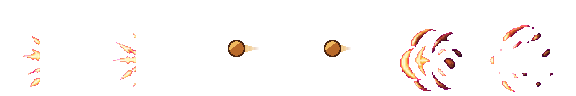
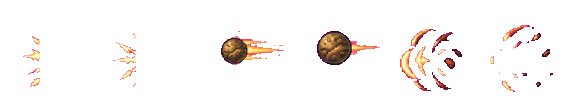
Thay hình vẽ bằng code bằng hình ChatGPT: bia chỉ đường P05 (3 ổ + mảnh chuông sáng theo số Chuông Vỡ), cọc chuông lối chính, vết nứt đỏ bí mật, dấu báo đòn quái (mặt nạ nứt đỏ cam), đạn Kèn Câm (cầu âm đồng có vệt đuôi, to rõ)
Claude-Session: https://claude.ai/code/session_01W9tcvqtq7TKxDYHKwgQMJZ

Changed region(s): [[0.5312, 0.3125, 0.6562, 0.6875], [0.375, 0.375, 0.5, 0.6875]]

diff --git a/tieng-vong-cuoi-cung/game/vung-1/ve.js b/tieng-vong-cuoi-cung/game/vung-1/ve.js
@@ -280,6 +280,7 @@
       ctx.fillStyle = '#0d0f1c'; ctx.fillRect(x - 26, y, 52, 7); ctx.fillStyle = '#ffbe50'; ctx.fillRect(x - 24, y + 2, Math.round(48 * Math.max(0, q.hp) / (d.mau || 30) / 2) * 2, 3); }
   }
   function veCham(x, y, xam){ x = Math.round(x); y = Math.round(y);
+    if (!xam && V1.IMG.dd_canh_bao){ veAnhDay(V1.IMG.dd_canh_bao, x, y + 26, 2.2, false); return; }
     ctx.fillStyle = '#0d0f1c'; ctx.fillRect(x - 5, y - 2, 10, 24); ctx.fillStyle = xam ? '#9aa3ad' : '#ffbe50'; ctx.fillRect(x - 3, y, 6, 12); ctx.fillRect(x - 3, y + 15, 6, 5); }
 
   /* ---------------- TRÙM: hình thật theo ID clip, chưa có → tượng tạm ---------------- */
@@ -489,6 +490,10 @@
      • loi_chinh: cọc gỗ + CHUÔNG NHỎ HỔ PHÁCH đung đưa, ánh hổ phách nhịp chậm – đặt gần cửa đi tiếp của tuyến chính.
      • bi_mat:    VẾT NỨT đỏ sẫm âm ỉ + bụi rơi lác đác – đặt trên/cạnh tường nứt, tường giả, hốc ẩn. Không có ánh hổ phách.
      • bang_chi_duong (P05): bia đá 3 ổ chuông sáng theo số Chuông Vỡ đã có + "còn thiếu n" + mũi tên về Sảnh Chuông Vỡ / Đàn Chuông Câm. */
+  // vẽ ảnh pixel (ChatGPT) neo ĐÁY-GIỮA tại (x, y) px logic, phóng k lần; lat = lật ngang
+  function veAnhDay(im, x, y, k, lat, a){ if (!im) return false; const w = im.width * k, h = im.height * k;
+    ctx.save(); ctx.imageSmoothingEnabled = false; if (a !== undefined) ctx.globalAlpha = Math.max(0, Math.min(1, a));
+    ctx.translate(Math.round(x), Math.round(y)); if (lat) ctx.scale(-1, 1); ctx.drawImage(im, -Math.round(w / 2), -Math.round(h), Math.round(w), Math.round(h)); ctx.restore(); return true; }
   const VNUT = [[0, 0, 0, 10], [-1, 9, 4, 6], [3, 14, -3, 8], [-3, 21, 2, 7], [2, 27, -2, 9], [1, 16, 7, 4], [-2, 24, -8, 3]];   // đoạn nứt [x, y, dx, dy]
   function veDauHieu(){
     const p = G.phong, f = E.S.frame;
@@ -496,6 +501,7 @@
       const x = d.cot * T + T / 2;
       if (d.loai === 'loi_chinh'){
         const y = V1.chanO(d.cot, d.hang);
+        if (veAnhDay(V1.IMG.dd_coc_chuong, x + 8, y + 2, 2.1, false)) continue;
         ctx.fillStyle = '#140c0b'; ctx.fillRect(x - 4, y - 66, 8, 66); ctx.fillRect(x - 4, y - 66, 26, 6);   // cọc + tay treo
         ctx.fillStyle = '#4a3026'; ctx.fillRect(x - 2, y - 64, 4, 62); ctx.fillRect(x - 2, y - 64, 22, 2);
         ctx.fillStyle = '#2a1a14'; ctx.fillRect(x - 8, y - 4, 16, 4);
@@ -516,6 +522,9 @@
       const x = d.cot * T + T / 2;
       if (d.loai === 'bi_mat'){
         const y = d.hang * T + T / 2, a = 0.7 + 0.3 * Math.sin(f / 40 + d.cot);
+        if (V1.IMG.dd_nut_bi_mat){ veAnhDay(V1.IMG.dd_nut_bi_mat, x, y + 30, 2.2, d.cot % 2 === 1, a);
+          for (let i = 0; i < 3; i++){ const k = ((f + i * 37 + d.cot * 11) % 90) / 90; ctx.fillStyle = 'rgba(176,163,153,' + (0.7 * (1 - k)) + ')'; ctx.fillRect(Math.round(x - 10 + i * 10), Math.round(y - 30 + k * 60), 3, 3); }
+          continue; }
         ctx.save(); ctx.translate(Math.round(x), Math.round(y - 22)); ctx.scale(1.6, 1.6);
         for (const [x0, y0, dx, dy] of VNUT){
           ctx.strokeStyle = 'rgba(10,4,4,0.95)'; ctx.lineWidth = 4; ctx.beginPath(); ctx.moveTo(x0, y0); ctx.lineTo(x0 + dx, y0 + dy); ctx.stroke();
@@ -531,6 +540,17 @@
     const b = p.bang_chi_duong;
     if (b){
       const x = b.cot * T + T / 2, y = V1.chanO(b.cot, b.hang), co = Math.min(3, G.luu.kho.chuong_vo || 0), thieu = 3 - co;
+      const IB = V1.IMG.dd_bia, IC = V1.IMG.dd_chuong_nho;
+      if (IB && IC){
+        const k = 2.3, dir0 = b.huong === 'trai' ? -1 : 1, lat = dir0 > 0, w = IB.width * k, h = IB.height * k, x0 = x - w / 2, y0 = y + 4 - h;
+        veAnhDay(IB, x, y + 4, k, lat);
+        const HOC = [[17.8, 23.7], [32.5, 23.7], [46.6, 23.7]];   // tâm 3 ổ chuông trong ảnh bia (điểm ảnh gốc)
+        for (let i = 0; i < 3; i++){ if (i >= co) continue; const [hx, hy] = HOC[lat ? 2 - i : i]; const cx = lat ? x0 + w - hx * k : x0 + hx * k;
+          veAnhDay(IC, cx, y0 + hy * k + IC.height * k * 0.5, k * 0.95, false); }
+        chu('Chuông Vỡ ' + co + '/3', x + 10, y0 - 26, 17, '#ffe08a');
+        chu(thieu ? 'Còn thiếu ' + thieu + (dir0 < 0 ? ' · ← ' : ' · → ') + (b.ten || '') : (dir0 < 0 ? '← ' : '→ ') + 'Đủ 3 · Cửa Đàn Chuông Câm', x + 10, y0 - 6, 14, thieu ? '#F3E6C8' : '#ffd98a');
+        return;
+      }
       const bia = (dx, top, w, mau) => { ctx.fillStyle = mau; ctx.beginPath(); ctx.moveTo(x - w, y - 6); ctx.lineTo(x - w, y - top + w * 0.55); ctx.quadraticCurveTo(x - w, y - top, x, y - top); ctx.quadraticCurveTo(x + w, y - top, x + w, y - top + w * 0.55); ctx.lineTo(x + w, y - 6); ctx.closePath(); ctx.fill(); };
       bia(0, 100, 35, '#0d0809'); bia(0, 97, 32, '#3d2c2a');
       ctx.fillStyle = '#54403a'; ctx.fillRect(x - 30, y - 82, 3, 72); ctx.fillStyle = '#2a1e1c'; ctx.fillRect(x + 26, y - 82, 3, 72);

diff --git a/tieng-vong-cuoi-cung/game/phong-demo/index.html b/tieng-vong-cuoi-cung/game/phong-demo/index.html
@@ -299,6 +299,7 @@ function cungSong(x, y, r, huong, mau, a, day){
   ctx.globalAlpha = 1;
 }
 // sprite hiệu ứng chiêu (ChatGPT vẽ): art/hieu-ung/chieu-quai/<ten>.png – 6 ô 96×96, hướng TRÁI
+const CANH_BAO = new Image(); CANH_BAO.src = '../../art/vung-1/dao-cu/dan-duong/canh_bao.png';   // dấu báo đòn (ChatGPT vẽ)
 const FXQ = {}; for (const n of ['ken', 'cau', 'vai', 'tan', 'bui_tuong', 'tang', 'ken_tron', 'cau_tim', 'vai_nhat']){ const im = new Image(); im.src = '../../art/hieu-ung/chieu-quai/' + n + '.png'; FXQ[n] = im; }
 function veFx(ten, o, x, y, phai, k, a){
   const im = FXQ[ten]; if (!im || !im.complete || !im.naturalWidth) return;
@@ -341,7 +342,8 @@ function veQuai(q, cam){
   } else { if (al !== undefined) ctx.globalAlpha = al; khoi(fx, fy, q.w, q.h, q.flash > 2 ? '#ffffff' : (d.mau_khoi || '#a07850'), q.face); ctx.globalAlpha = 1; }
   // báo trước: dấu "!" hổ phách nhấp nháy trên đầu
   if (q.baoTruoc && (E.S.frame >> 2) % 2 === 0){ const x = Math.round(fx), y = Math.round(q.y) - 26;
-    ctx.fillStyle = '#0d0f1c'; ctx.fillRect(x - 5, y - 2, 10, 24); ctx.fillStyle = '#ffbe50'; ctx.fillRect(x - 3, y, 6, 12); ctx.fillRect(x - 3, y + 15, 6, 5); }
+    if (CANH_BAO.complete && CANH_BAO.naturalWidth){ const w = Math.round(CANH_BAO.width * 2.2), h = Math.round(CANH_BAO.height * 2.2); ctx.drawImage(CANH_BAO, x - (w >> 1), y + 26 - h, w, h); }
+    else { ctx.fillStyle = '#0d0f1c'; ctx.fillRect(x - 5, y - 2, 10, 24); ctx.fillStyle = '#ffbe50'; ctx.fillRect(x - 3, y, 6, 12); ctx.fillRect(x - 3, y + 15, 6, 5); } }
   // thanh máu
   if (q.hp < (d.mau || 30) && q.st !== 'chet'){ const x = Math.round(fx), y = Math.round(q.y) - 12;
     ctx.fillStyle = '#0d0f1c'; ctx.fillRect(x - 26, y, 52, 7); ctx.fillStyle = '#ffbe50'; ctx.fillRect(x - 24, y + 2, Math.round(48 * Math.max(0, q.hp) / (d.mau || 30) / 2) * 2, 3); }

diff --git a/tieng-vong-cuoi-cung/game/vung-1/nap.js b/tieng-vong-cuoi-cung/game/vung-1/nap.js
@@ -12,6 +12,8 @@ V1.nap = async function(){
   await Promise.all([['bg', 'bg_far'], ['mid', 'bg_mid'], ['hon', 'fx_hon'], ['vm1', 'v_mid1'], ['vm2', 'v_mid2']].map(([k, f]) => V1.napAnh(k, A + f + '.png')));
   // hiệu ứng chiêu quái (ChatGPT vẽ): 6 ô 96×96, hướng TRÁI
   await Promise.all(['ken', 'cau', 'vai', 'tan', 'bui_tuong', 'tang', 'ken_tron', 'cau_tim', 'vai_nhat'].map(n => V1.napAnh('fx_' + n, '../../art/hieu-ung/chieu-quai/' + n + '.png')));
+  // dấu dẫn hướng + dấu báo đòn (ChatGPT vẽ): art/vung-1/dao-cu/dan-duong/
+  await Promise.all(['bia', 'chuong_nho', 'coc_chuong', 'nut_bi_mat', 'canh_bao'].map(n => V1.napAnh('dd_' + n, '../../art/vung-1/dao-cu/dan-duong/' + n + '.png')));
   // đạo cụ + trùm (ChatGPT vẽ, PNG trong suốt; luồng E). Thiếu ảnh → ve.js vẽ hình tạm như cũ.
   const DC = '../../art/vung-1/dao-cu/', TRM = '../../art/vung-1/trum/';
   await Promise.all([['chuong_tat', DC + 'chuong-luu-tat'], ['chuong_sang', DC + 'chuong-luu-sang'], ['cua_dong', DC + 'cua-khoa-dong'], ['cua_mo', DC + 'cua-khoa-mo'],

diff --git a/tieng-vong-cuoi-cung/tools/vung-1/tach-dan-duong.py b/tieng-vong-cuoi-cung/tools/vung-1/tach-dan-duong.py
@@ -1,0 +1,53 @@
+import json,base64,io,os
+import numpy as np
+from PIL import Image
+from scipy import ndimage
+F='/root/.claude/projects/-home-claude/3d4601ea-c0a0-509d-bac3-ac4c31c5f5c0.jsonl'
+with open(F,'rb') as f:
+    f.seek(0,2); n=f.tell(); f.seek(max(0,n-3_000_000)); L=f.read().decode('utf8','ignore').splitlines()[1:]
+imgs=[]
+def walk(o):
+    if isinstance(o,dict):
+        if o.get('type')=='image' and 'source' in o: imgs.append(o['source'])
+        for v in o.values(): walk(v)
+    elif isinstance(o,list):
+        for v in o: walk(v)
+for l in L:
+    try: walk(json.loads(l))
+    except: pass
+P=[np.array(Image.open(io.BytesIO(base64.b64decode(p['data']))).convert('RGB')).astype(int) for p in imgs]
+P=[p for p in P if p.shape[:2]==(512,1536)]
+U=[]
+for p in P:
+    if not U or not np.array_equal(U[-1],p): U.append(p)
+full=np.vstack([U[-2],U[-1]])
+r,g,b=full[...,0],full[...,1],full[...,2]
+d=np.sqrt((r-255)**2+g**2+(b-255)**2)
+pinkish=(r>150)&(b>120)&(g<110)&(np.abs(r-b)<110)   # quầng sáng trộn nền
+op=(d>80)&~pinkish
+op=ndimage.binary_opening(op,iterations=1)
+rgba=np.dstack([r,g,b,np.where(op,255,0)]).astype(np.uint8)
+D='/home/claude/new-project/tieng-vong-cuoi-cung/art/vung-1/dao-cu/dan-duong'; os.makedirs(D,exist_ok=True)
+Image.fromarray(rgba).save(D+'/nguon-chatgpt.png')
+def cut(box,name,cao):
+    x0,y0,x1,y1=box; sub=rgba[y0:y1,x0:x1]; ys,xs=np.nonzero(sub[...,3])
+    sub=sub[ys.min():ys.max()+1, xs.min():xs.max()+1]
+    im=Image.fromarray(sub); w=round(im.width*cao/im.height); im=im.resize((w,cao),Image.BOX)
+    a=np.array(im); a[...,3]=np.where(a[...,3]>140,255,0); Image.fromarray(a).save(f'{D}/{name}.png'); print(name,im.size)
+    return im.size
+cut((0,0,520,500),'bia',60)        # px gốc ở tỉ lệ 3 px logic/điểm → cao 180 logic
+cut((660,150,920,430),'chuong_nho',18)
+cut((1120,60,1460,500),'coc_chuong',44)
+cut((100,560,320,940),'nut_bi_mat',30)
+cut((1220,620,1420,880),'canh_bao',16)
+# đạn kèn: 4 khung, ghép vào ô 2,3 của ken_tron.png (ô 96px), giữ ô 0,1,4,5
+K='/home/claude/new-project/tieng-vong-cuoi-cung/art/hieu-ung/chieu-quai/ken_tron.png'
+ken=Image.open(K).convert('RGBA')
+fr=[]
+for x0 in (420,610,800,980):
+    sub=rgba[680:830,x0:x0+180]; ys,xs=np.nonzero(sub[...,3]); sub=sub[ys.min():ys.max()+1, xs.min():xs.max()+1]
+    im=Image.fromarray(sub); s=34/im.height; im=im.resize((max(1,round(im.width*s)),34),Image.BOX); a=np.array(im); a[...,3]=np.where(a[...,3]>140,255,0); fr.append(Image.fromarray(a))
+for cell,k in ((2,0),(3,2)):
+    c=Image.new('RGBA',(96,96),(0,0,0,0)); im=fr[k]; c.alpha_composite(im,(48-im.height//2-2, 48-im.height//2))   # đầu đạn (bên trái) gần tâm ô
+    ken.paste(c,(cell*96,0))
+ken.save(K); print('ken_tron cập nhật')
